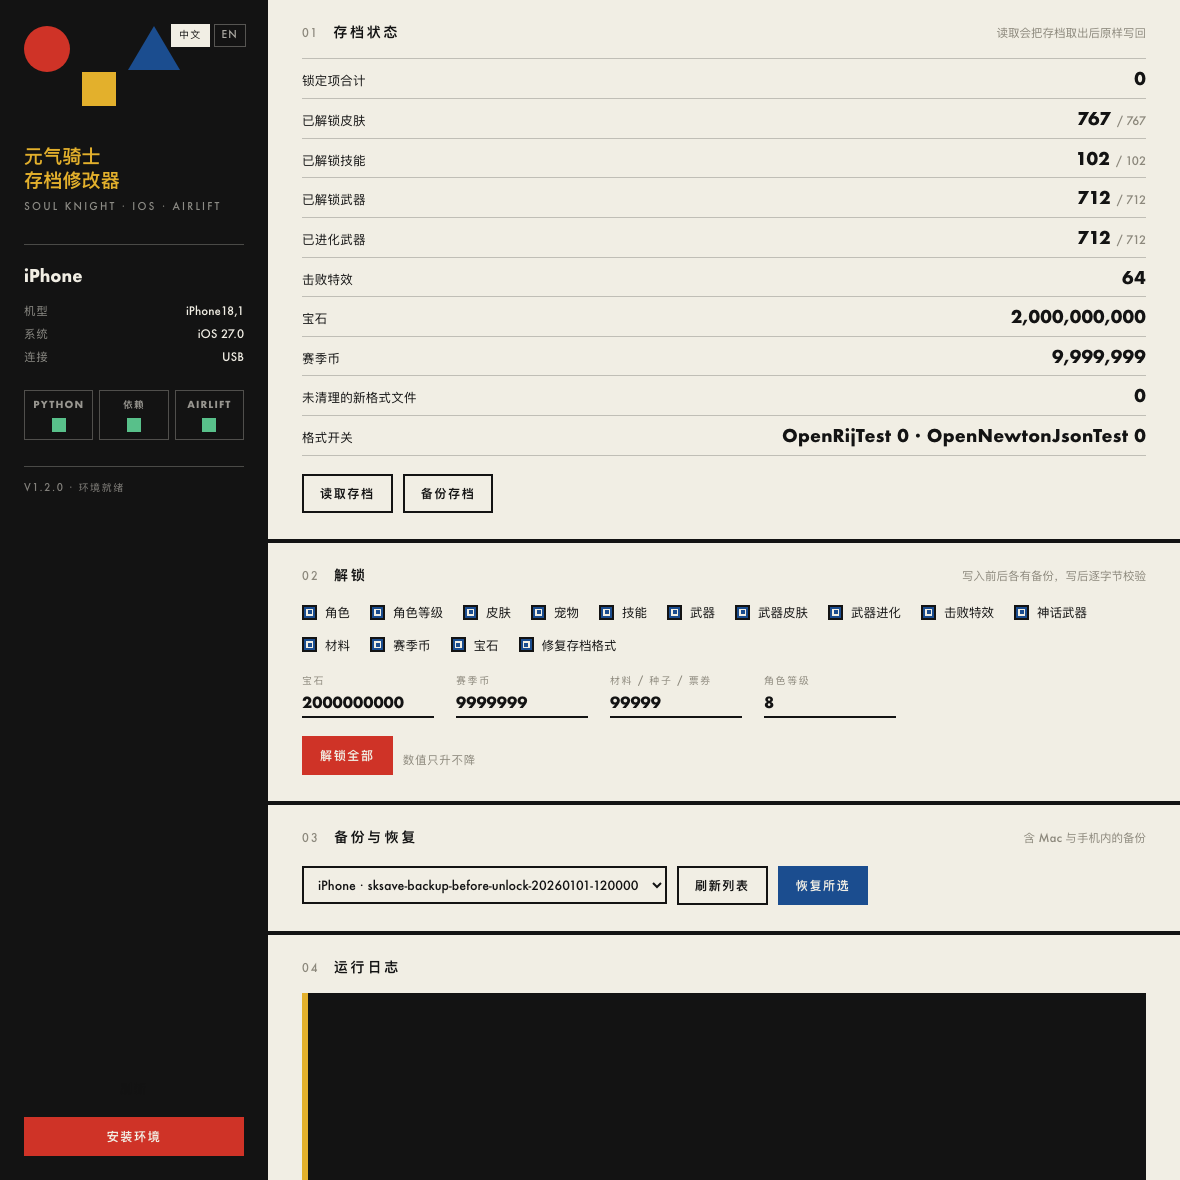
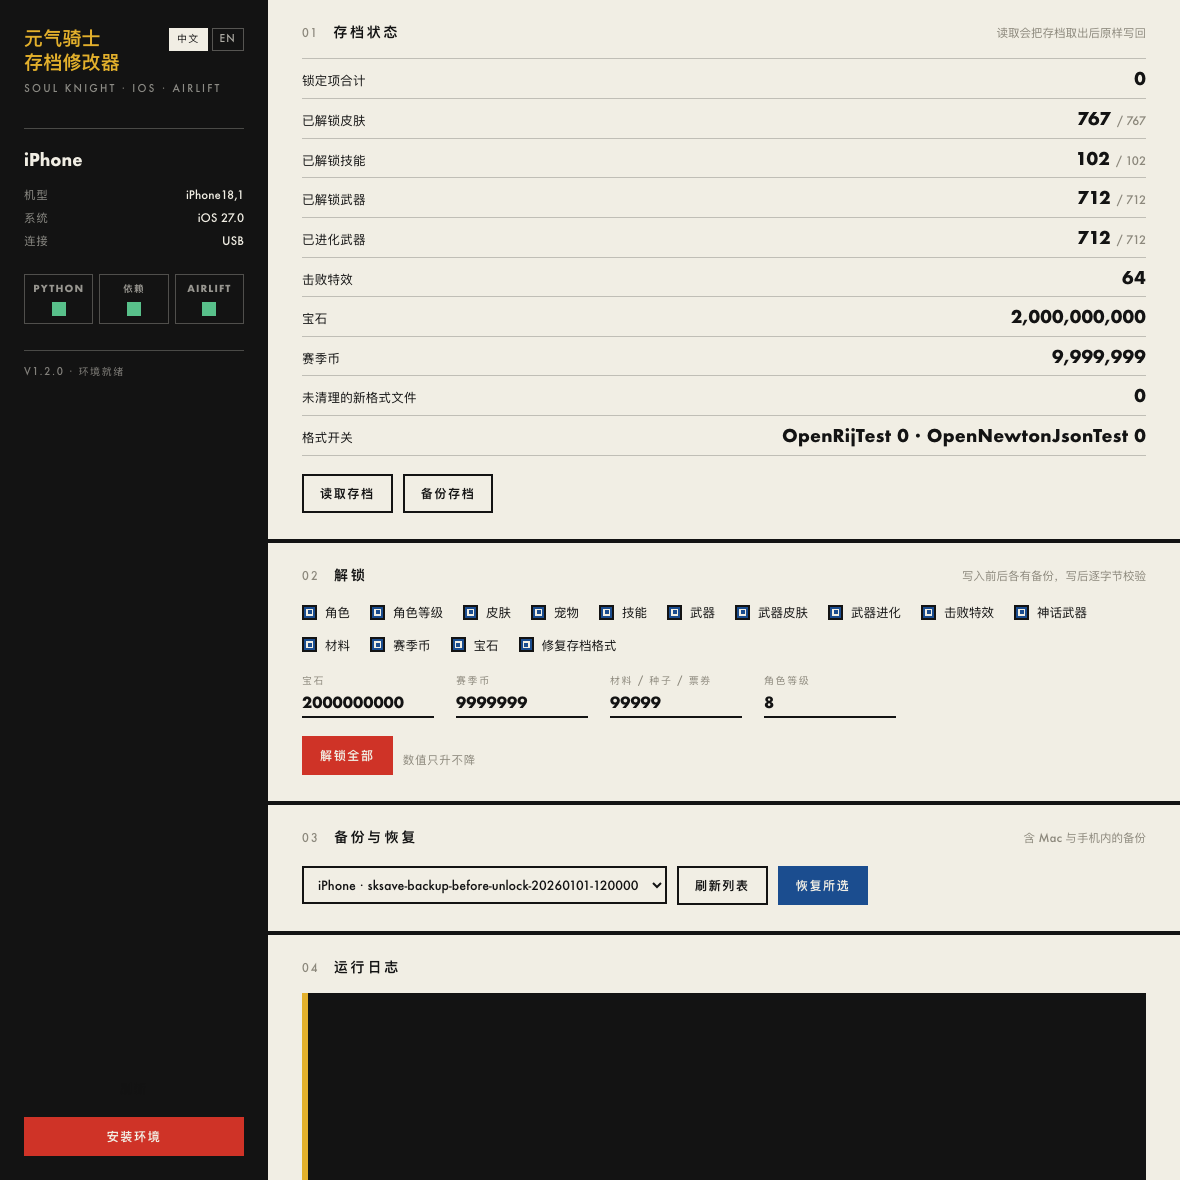
Simpler title block, Chinese by default, and a snapshot mode
The window no longer opens with three geometric marks above the title: the title
sits alone in the top left corner next to the language switch.  Chinese is the
default language now, with English one click away.

Two details the first real screenshot exposed: the number fields no longer show
the system stepper arrows (they fought the underlined fields), and the backup
list says it is loading instead of looking empty.

--snapshot <file.png> makes the app photograph its own window and quit, which
needs no system permission and is how the documentation image was made.

diff --git a/sksave/ui.html b/sksave/ui.html
@@ -38,15 +38,7 @@
     position: relative;
     overflow: hidden;
   }
-  .marks { position: relative; height: 96px; margin-bottom: 22px; }
-  .marks i { position: absolute; display: block; }
-  .mark-circle { width: 46px; height: 46px; border-radius: 50%; background: var(--red); left: 0; top: 0; }
-  .mark-square { width: 34px; height: 34px; background: var(--yellow); left: 58px; top: 46px; }
-  .mark-tri {
-    width: 0; height: 0; left: 104px; top: 0;
-    border-left: 26px solid transparent; border-right: 26px solid transparent;
-    border-bottom: 44px solid var(--blue);
-  }
+  .rail-head { display: flex; align-items: flex-start; justify-content: space-between; gap: 12px; }
   aside h1 {
     font-size: 19px; font-weight: 700; letter-spacing: .01em; line-height: 1.25;
   }
@@ -55,7 +47,7 @@
     margin-top: 8px; font-size: 10px; letter-spacing: .22em; text-transform: uppercase;
     color: rgba(241, 238, 228, .55);
   }
-  aside .device { margin-top: 30px; border-top: 1px solid rgba(241, 238, 228, .25); padding-top: 16px; }
+  aside .device { margin-top: 32px; border-top: 1px solid rgba(241, 238, 228, .25); padding-top: 16px; }
   aside .device .name { font-size: 16px; font-weight: 700; }
   aside .device dl { margin-top: 10px; }
   aside .device div { display: flex; justify-content: space-between; padding: 3px 0; font-size: 11.5px; }
@@ -76,7 +68,7 @@
     font-size: 10px; letter-spacing: .16em; text-transform: uppercase; color: rgba(241, 238, 228, .5);
   }
   .rail-actions { margin-top: auto; padding-top: 22px; display: grid; gap: 8px; }
-  .lang { position: absolute; top: 24px; right: 22px; display: flex; gap: 4px; }
+  .lang { display: flex; gap: 4px; flex: 0 0 auto; padding-top: 2px; }
   .lang button {
     background: none; border: 1px solid rgba(241, 238, 228, .3); color: rgba(241, 238, 228, .7);
     font: inherit; font-size: 10px; letter-spacing: .12em; padding: 3px 7px; cursor: pointer;
@@ -142,6 +134,9 @@
     width: 132px; color: var(--ink);
   }
   .field input:focus { outline: none; border-bottom-color: var(--red); }
+  .field input::-webkit-outer-spin-button,
+  .field input::-webkit-inner-spin-button { -webkit-appearance: none; margin: 0; }
+  .field input[type="number"] { -moz-appearance: textfield; appearance: textfield; }
 
   select {
     font: inherit; font-size: 12.5px; background: none; color: var(--ink);
@@ -167,12 +162,13 @@
 </head>
 <body>
 <aside>
-  <span class="lang">
-    <button id="lang-zh" title="中文">中文</button>
-    <button id="lang-en" title="English">EN</button>
-  </span>
-  <div class="marks"><i class="mark-circle"></i><i class="mark-square"></i><i class="mark-tri"></i></div>
-  <h1><span data-i18n="titleTop">元气骑士</span><span data-i18n="titleBottom">存档修改器</span></h1>
+  <div class="rail-head">
+    <h1><span data-i18n="titleTop">元气骑士</span><span data-i18n="titleBottom">存档修改器</span></h1>
+    <span class="lang">
+      <button id="lang-zh" title="中文">中文</button>
+      <button id="lang-en" title="English">EN</button>
+    </span>
+  </div>
   <p class="latin">Soul Knight · iOS · AirLift</p>
 
   <div class="device">
@@ -238,7 +234,7 @@
       <span class="note" data-i18n="restoreNote"></span>
     </div>
     <div class="actions">
-      <select id="backup-list"></select>
+      <select id="backup-list"><option data-i18n="loading">正在读取…</option></select>
       <button class="act" id="btn-list" data-i18n="reload">刷新列表</button>
       <button class="act blue" id="btn-restore" data-i18n="restoreDo">恢复所选</button>
     </div>
@@ -268,7 +264,7 @@ const I18N = {
     gems: "宝石", coin: "赛季币", qty: "材料 / 种子 / 票券", heroLv: "角色等级",
     unlockAll: "解锁全部",
     unlockHint: "数值只升不降",
-    reload: "刷新列表", restoreDo: "恢复所选",
+    reload: "刷新列表", restoreDo: "恢复所选", loading: "正在读取…",
     readyLine: "环境就绪", setupLine: "环境未安装",
     empty: "还没有读取过存档", none: "未找到 iPhone",
     noDevice: "请确认 iPhone 已用数据线连接、已解锁，游戏已退出（锁屏时 iOS 不会交出 App 数据）。",
@@ -299,7 +295,7 @@ const I18N = {
     gems: "Gems", coin: "Season coins", qty: "Materials / seeds / tickets", heroLv: "Hero level",
     unlockAll: "Unlock all",
     unlockHint: "values are never lowered",
-    reload: "Reload", restoreDo: "Restore",
+    reload: "Reload", restoreDo: "Restore", loading: "loading...",
     readyLine: "environment ready", setupLine: "environment missing",
     empty: "the save has not been read yet", none: "no iPhone found",
     noDevice: "Connect the iPhone with a cable, unlock it and close the game first (iOS hands over no app data while it is locked).",
@@ -321,7 +317,7 @@ const I18N = {
     }
   }
 };
-let lang = (navigator.language || "").startsWith("zh") ? "zh" : "en";
+let lang = "zh";   // Chinese first; the switch in the corner changes it
 const t = (key) => I18N[lang][key] ?? key;
 const $ = (id) => document.getElementById(id);
 const esc = (value) => String(value).replace(/[&<>]/g, (c) => ({ "&": "&amp;", "<": "&lt;", ">": "&gt;" }[c]));

diff --git a/scripts/app/SoulKnightSaveEditor.swift b/scripts/app/SoulKnightSaveEditor.swift
@@ -34,6 +34,7 @@ final class Host: NSObject, WKScriptMessageHandler, WKWebViewConfigurationProvid
     var tool: URL = URL(fileURLWithPath: NSTemporaryDirectory())
     var jobScript: Process?
     var jobName = ""
+    var snapshotPath: String?
     var state: [String: Any]?
 
     // ------------------------------------------------------------------ setup
@@ -60,6 +61,26 @@ final class Host: NSObject, WKScriptMessageHandler, WKWebViewConfigurationProvid
         note("window created, visible=\(window.isVisible) frame=\(NSStringFromRect(window.frame))")
 
         loadInterface()
+
+        if let path = snapshotPath {
+            // --snapshot <file>: let the page finish its round trips, save the window
+            // as a PNG and quit.  Used to check the layout and to make README images.
+            DispatchQueue.main.asyncAfter(deadline: .now() + 4) { [weak self] in
+                guard let self = self, let view = self.webView else { return }
+                view.takeSnapshot(with: nil) { image, error in
+                    if let image = image,
+                       let tiff = image.tiffRepresentation,
+                       let bitmap = NSBitmapImageRep(data: tiff),
+                       let png = bitmap.representation(using: .png, properties: [:]) {
+                        try? png.write(to: URL(fileURLWithPath: path))
+                        note("snapshot written to \(path)")
+                    } else {
+                        note("snapshot failed: \(error?.localizedDescription ?? "unknown")")
+                    }
+                    NSApp.terminate(nil)
+                }
+            }
+        }
     }
 
     func loadInterface() {
@@ -356,6 +377,10 @@ final class AppDelegate: NSObject, NSApplicationDelegate {
 
     func applicationDidFinishLaunching(_ notification: Notification) {
         note("applicationDidFinishLaunching")
+        let arguments = CommandLine.arguments
+        if let index = arguments.firstIndex(of: "--snapshot"), index + 1 < arguments.count {
+            host.snapshotPath = arguments[index + 1]
+        }
         buildMenu()
         host.start()
         NSApp.activate(ignoringOtherApps: true)

diff --git a/README.md b/README.md
@@ -88,7 +88,11 @@ make app              # 编译并打开 dist/SoulKnightSaveEditor.app
 运行日志实时显示。环境还没装好时，点左侧的「安装环境」即可，它会创建虚拟环境、
 安装依赖并编译 AirLift，进度同样显示在日志里。
 
-界面中英双语，右上角切换。菜单栏里可以「打开工具文件夹」查看取出的存档与备份。
+界面中英双语，默认中文，右上角切换。菜单栏里可以「打开工具文件夹」查看取出的存档与备份。
+
+调试时可以给 App 传 `--snapshot <文件.png>`，它会加载界面、等状态刷新完，把窗口存成
+PNG 再退出，用来核对排版或生成文档截图。App 的运行日志在
+`~/Library/Application Support/SoulKnightSaveEditor/app.log`，窗口没出现时先看它。
 
 ### 使用：命令行
 
@@ -314,8 +318,14 @@ a backup - with the log streaming live. If the environment is missing, press "se
 column and it creates the virtualenv, installs the dependencies and builds AirLift, showing the
 progress in the log.
 
-The interface is bilingual (Chinese and English, switchable in the top right corner), and the
+The interface is bilingual - Chinese by default, switchable in the top right corner - and the
 menu bar has an "open tool folder" item for the pulled saves and backups.
+
+For debugging, `--snapshot <file.png>` makes the app load the interface, wait for the status
+refresh, write the window to a PNG and quit, which is handy for checking the layout or making
+documentation images. The app log is at
+`~/Library/Application Support/SoulKnightSaveEditor/app.log`, the first place to look when the
+window does not appear.
 
 ### Usage: command line
 
